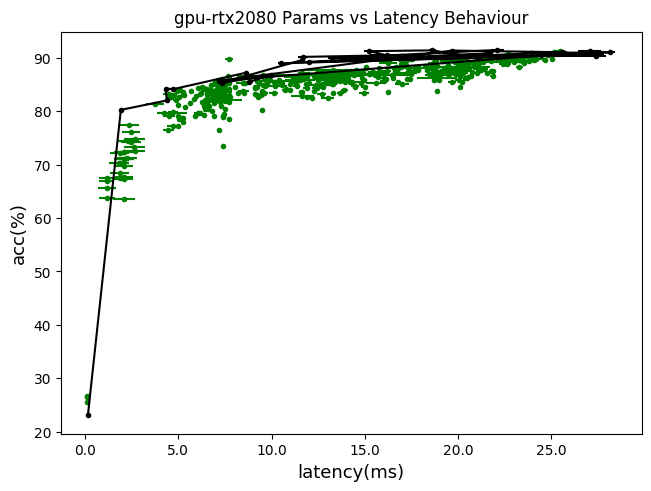
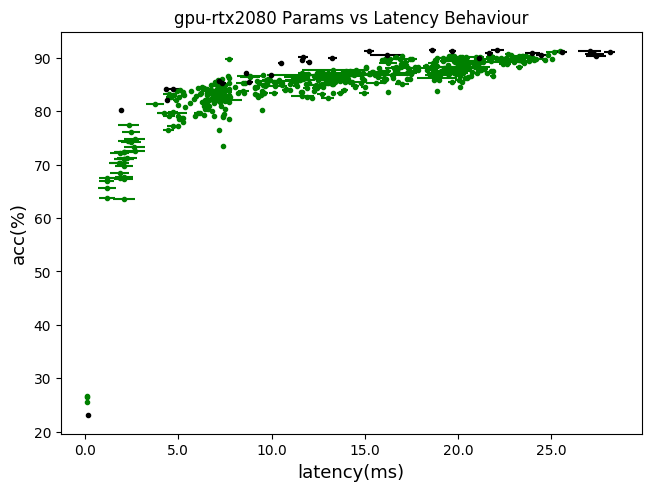
remove line from CIFAR10 experiment

diff --git a/viz_cloud_and_result_macro_latency_vs_acc.py b/viz_cloud_and_result_macro_latency_vs_acc.py
@@ -80,14 +80,14 @@ if __name__ == "__main__":
         "-fc",
         "--filename_cloud",
         type=str,
-        default="mcts_generated/arch_profile_cifar100_cloud_arch_op_gap_cifar100_cifar100_op_gap_with_acc.csv",
+        default="op_gap_cloud/arch_profile_gpu-rtx2080_below_12_with_acc.csv",
         help="start system with test config",
     )
     parser.add_argument(
         "-fmcts",
         "--filename_mcts",
         type=str,
-        default="mcts_generated/arch_profile_mcts_v7_t8_generated_cifar_macro_mcts_v7_sim_100_mcts_architecture_cpu_layers_cifar100_mcts_with_acc.csv",
+        default="mcts_generated/arch_profile_mcts_v7_t8_generated_cifar_macro_mcts_v7_sim_100_mcts_architecture_cpu_layers_with_acc.csv",
         help="start system with test config",
     )
     parser.add_argument(
